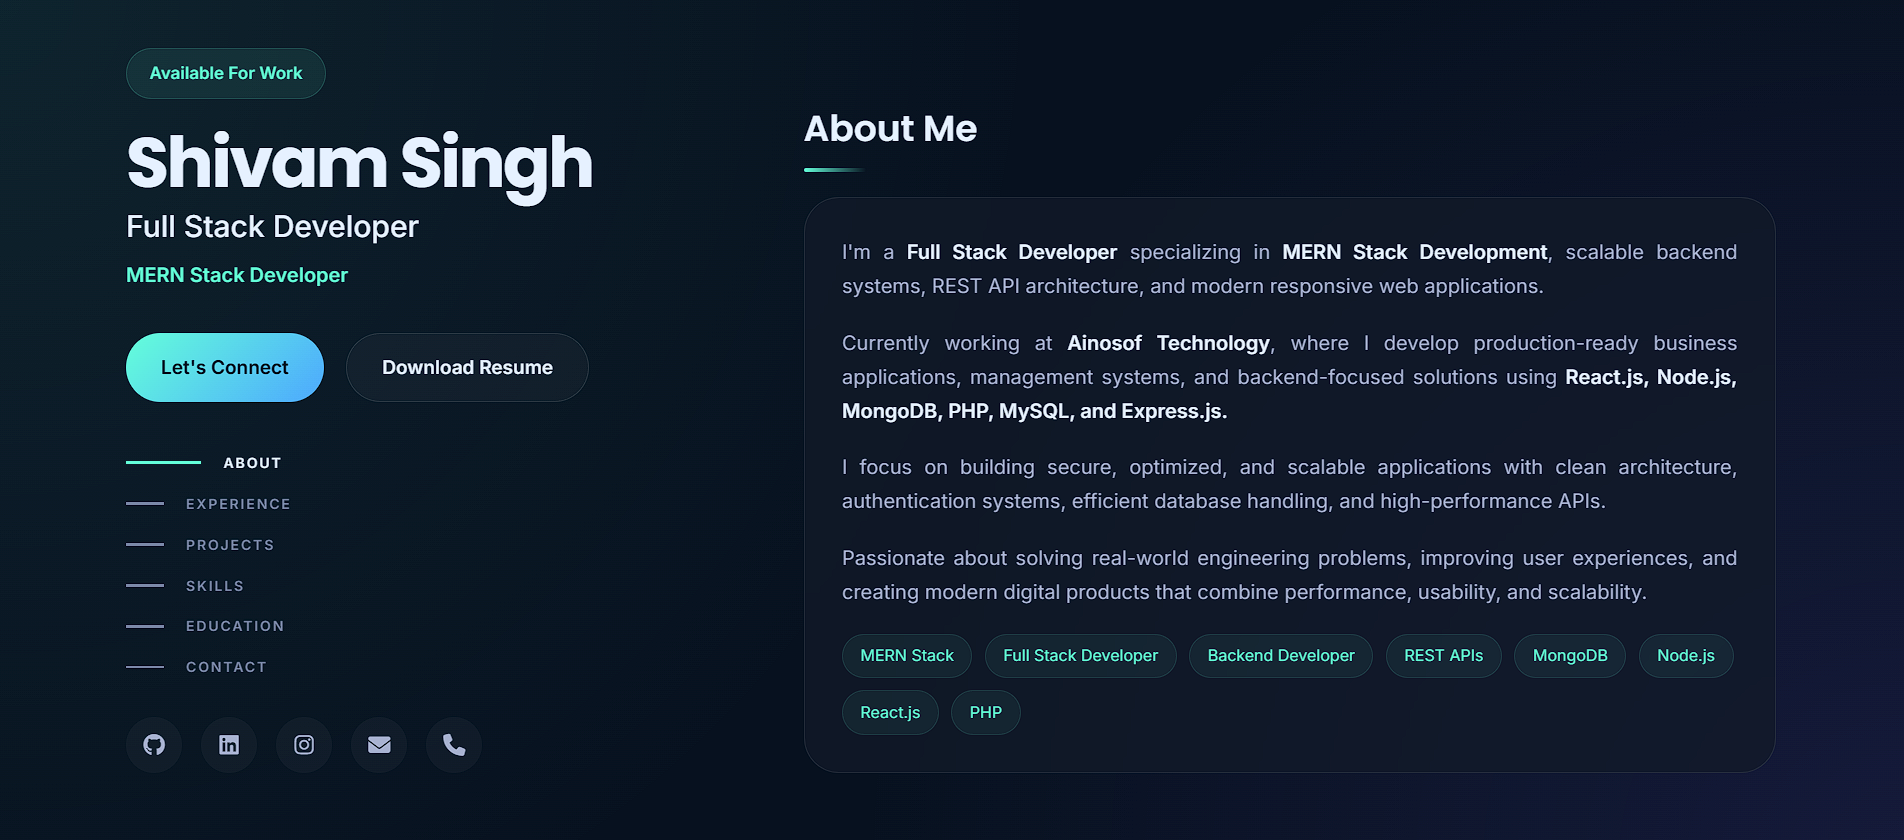
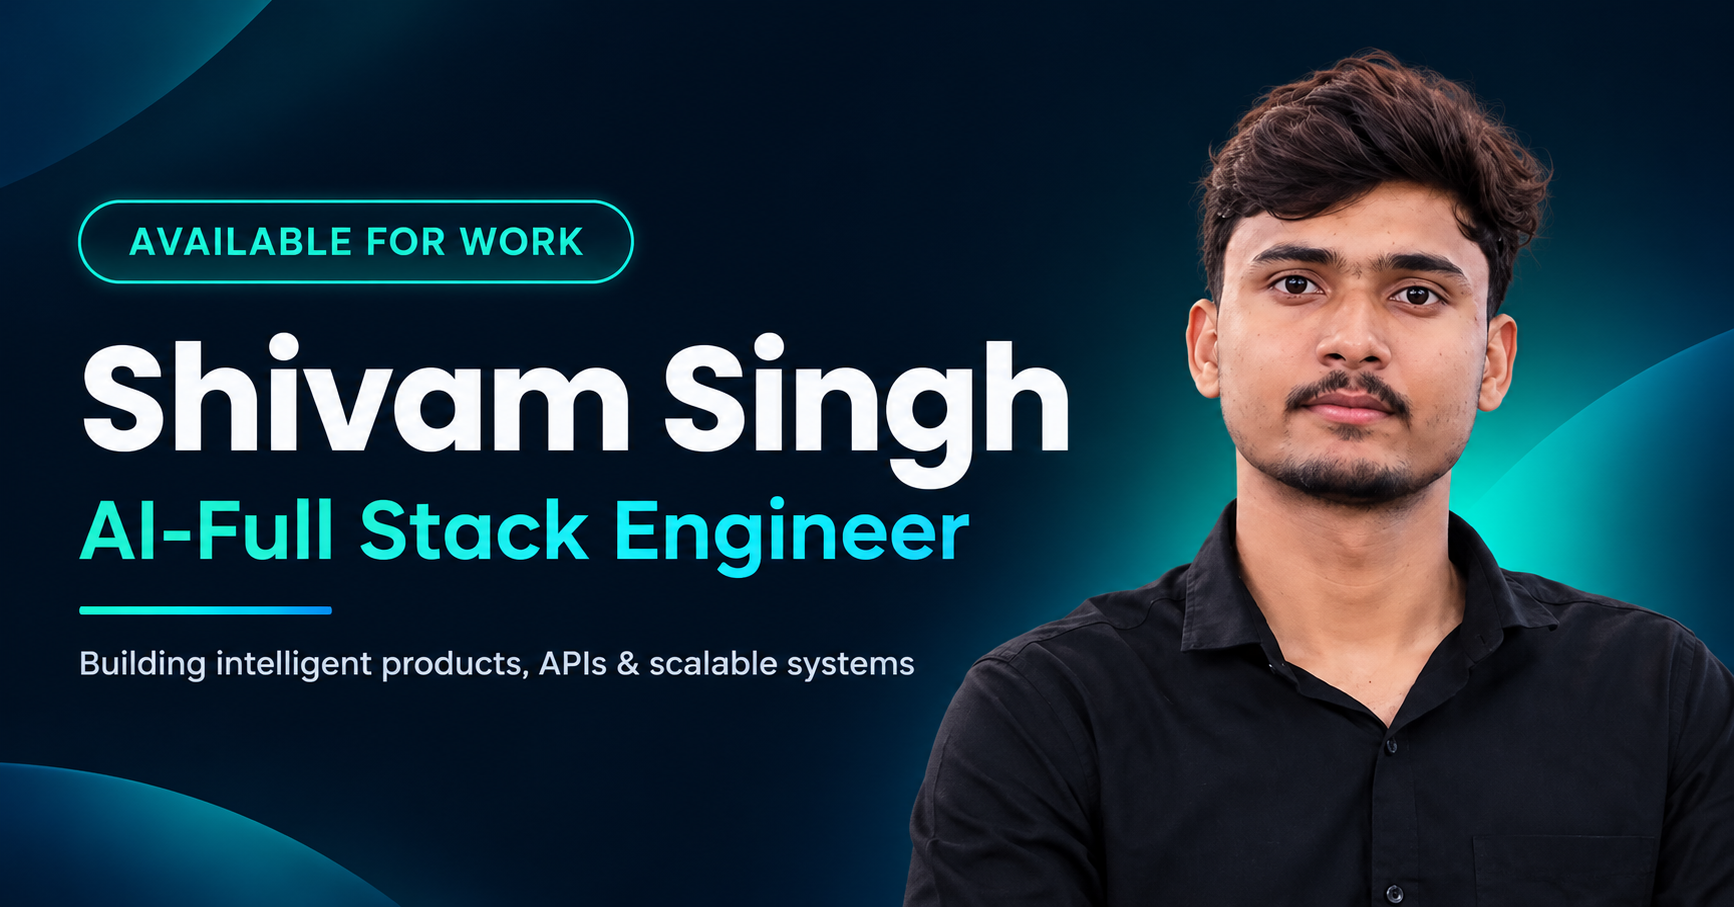
Fix mobile menu null reference error

diff --git a/index.html b/index.html
@@ -54,95 +54,57 @@
     <link rel="icon" type="image/png" href="/favicon.png" />
     <link rel="apple-touch-icon" href="/favicon.png" />
 
-    <!-- Structured data helps search engines understand the person and website.
-         Keep this information consistent with the visible page content. -->
     <script type="application/ld+json">
+{
+  "@context": "https://schema.org",
+  "@graph": [
     {
-      "@context": "https://schema.org",
-      "@graph": [
-        {
-          "@type": "Person",
-          "@id": "https://shivamsingh116.vercel.app/#person",
-          "name": "Shivam Singh",
-          "url": "https://shivamsingh116.vercel.app/",
-          "image": {
-            "@type": "ImageObject",
-            "url": "https://shivamsingh116.vercel.app/preview.png"
-          },
-          "jobTitle": "Full Stack Developer",
-          "description": "Full Stack Developer with industry experience building and deploying production-ready MERN and PHP/MySQL applications, business management systems, dynamic websites and REST APIs.",
-          "email": "mailto:solankishivam116@gmail.com",
-          "telephone": "+91-9996761239",
-          "address": {
-            "@type": "PostalAddress",
-            "addressLocality": "Rewari",
-            "addressCountry": "IN"
-          },
-          "sameAs": [
-            "https://www.linkedin.com/in/shivamsingh116/",
-            "https://github.com/Shivamsingh116-hub",
-            "https://www.instagram.com/shivam_0.0.4"
-          ],
-          "knowsAbout": [
-            "Full Stack Development",
-            "MERN Stack",
-            "JavaScript",
-            "TypeScript",
-            "React.js",
-            "Next.js",
-            "Node.js",
-            "Express.js",
-            "PHP",
-            "Python",
-            "REST API Development",
-            "MongoDB",
-            "MySQL",
-            "Redis",
-            "JWT Authentication",
-            "Role-Based Access Control",
-            "Database Design",
-            "Query Optimization",
-            "CI/CD"
-          ],
-          "alumniOf": {
-            "@type": "CollegeOrUniversity",
-            "name": "WCTM, Gurugram",
-            "parentOrganization": {
-              "@type": "CollegeOrUniversity",
-              "name": "Maharshi Dayanand University"
-            }
-          },
-          "worksFor": {
-            "@type": "Organization",
-            "name": "Ainosof Technology"
-          }
-        },
-        {
-          "@type": "WebSite",
-          "@id": "https://shivamsingh116.vercel.app/#website",
-          "url": "https://shivamsingh116.vercel.app/",
-          "name": "Shivam Singh | Full Stack Developer Portfolio",
-          "description": "Professional portfolio of Shivam Singh, Full Stack Developer.",
-          "inLanguage": "en-IN",
-          "publisher": {
-            "@id": "https://shivamsingh116.vercel.app/#person"
-          }
-        },
-        {
-          "@type": "ProfilePage",
-          "@id": "https://shivamsingh116.vercel.app/#profile",
-          "url": "https://shivamsingh116.vercel.app/",
-          "name": "Shivam Singh — Full Stack Developer",
-          "mainEntity": {
-            "@id": "https://shivamsingh116.vercel.app/#person"
-          },
-          "isPartOf": {
-            "@id": "https://shivamsingh116.vercel.app/#website"
-          }
-        }
-      ]
+      "@type": "Person",
+      "@id": "https://shivamsingh116.vercel.app/#person",
+      "name": "Shivam Singh",
+      "url": "https://shivamsingh116.vercel.app/",
+      "jobTitle": "Full Stack Developer",
+      "sameAs": [
+        "https://www.linkedin.com/in/shivamsingh116/",
+        "https://github.com/Shivamsingh116-hub"
+      ],
+      "knowsAbout": [
+        "Full Stack Development",
+        "MERN Stack",
+        "React.js",
+        "Node.js",
+        "Express.js",
+        "PHP",
+        "MySQL",
+        "MongoDB",
+        "TypeScript",
+        "REST API Development"
+      ],
+      "worksFor": {
+        "@type": "Organization",
+        "name": "Ainosof Technology"
+      }
+    },
+    {
+      "@type": "WebSite",
+      "@id": "https://shivamsingh116.vercel.app/#website",
+      "url": "https://shivamsingh116.vercel.app/",
+      "name": "Shivam Singh | Full Stack Developer Portfolio",
+      "publisher": {
+        "@id": "https://shivamsingh116.vercel.app/#person"
+      }
+    },
+    {
+      "@type": "ProfilePage",
+      "@id": "https://shivamsingh116.vercel.app/#profile",
+      "url": "https://shivamsingh116.vercel.app/",
+      "mainEntity": {
+        "@id": "https://shivamsingh116.vercel.app/#person"
+      }
     }
-    </script>
+  ]
+}
+</script>
 
     <!-- =========================================
       FONTS
@@ -168,45 +130,7 @@
   ========================================== -->
     <link rel="stylesheet" href="style.css" />
 
-    <!-- =========================================
-      STRUCTURED DATA (VERY IMPORTANT 🔥)
-  ========================================== -->
-    <script type="application/ld+json">
-{
-  "@context": "https://schema.org",
-  "@type": "Person",
-  "name": "Shivam Singh",
-  "jobTitle": "Full Stack Developer",
-  "url": "https://shivamsingh116.vercel.app",
-  "sameAs": [
-    "https://www.linkedin.com/in/shivamsingh116",
-    "https://github.com/Shivamsingh116-hub"
-  ],
-  "knowsAbout": [
-    "React.js",
-    "Node.js",
-    "Express.js",
-    "MongoDB",
-    "JavaScript",
-    "PHP",
-    "MySQL",
-    "Full Stack Development",
-    "MERN Stack"
-  ],
-  "address": {
-    "@type": "PostalAddress",
-    "addressLocality": "Gurgaon",
-    "addressRegion": "Haryana",
-    "addressCountry": "India"
-  },
-  "image": "https://shivamsingh116.vercel.app/preview.png",
-  "description": "Full Stack MERN Developer building scalable web applications using React, Node.js, Express, and MongoDB.",
-  "worksFor": {
-    "@type": "Organization",
-    "name": "Freelance Developer"
-  }
-}
-</script>
+   
   </head>
 
   <body>
